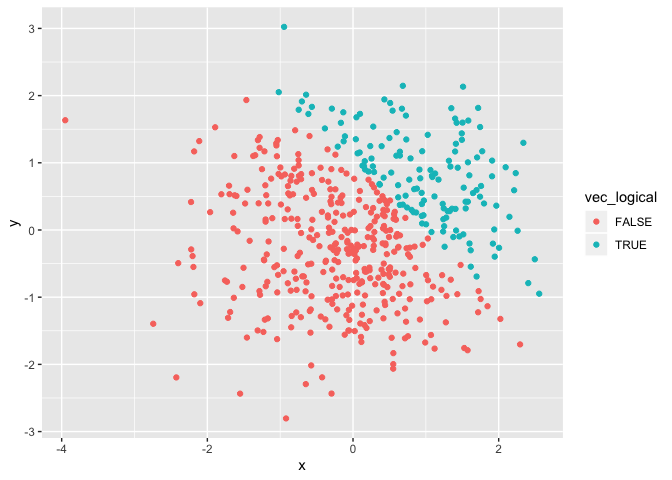
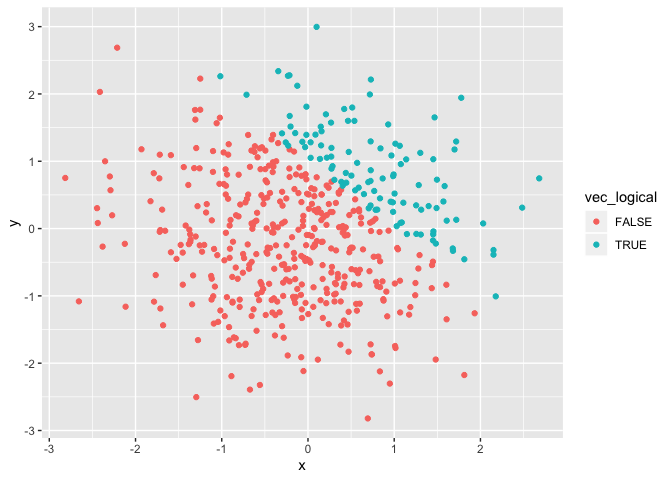
Fixing spacing for header

diff --git a/p8105_hw1_sm4594.md b/p8105_hw1_sm4594.md
@@ -47,13 +47,13 @@ problem1_df = tibble(
 mean(pull(problem1_df, norm_samp))
 ```
 
-    ## [1] -0.1593224
+    ## [1] 0.1890514
 
 ``` r
 mean(pull(problem1_df, norm_samp_pos))
 ```
 
-    ## [1] 0.5
+    ## [1] 0.75
 
 ``` r
 mean(pull(problem1_df, vec_char))
@@ -147,9 +147,9 @@ problem2_df = tibble(
 ```
 
 *There are 500 rows and 5 columns in the dataset. The mean, median, and
-standard deviation of x are 0.0912163, 0.1177736 and 1.0164616,
+standard deviation of x are -0.0674565, -0.0510718 and 0.9260709,
 respectively. The proportion of cases for which x + y \> 1 is
-0.28.*
+0.216.*
 
 ## Making a scatterplot of y vs. x; color points using logical variable
 
@@ -157,9 +157,9 @@ respectively. The proportion of cases for which x + y \> 1 is
 ggplot(problem2_df, aes(x = x, y = y, color = vec_logical)) + geom_point()
 ```
 
-![](p8105_hw1_sm4594_files/figure-gfm/plot1-1.png)<!-- --> \#\#
-Exporting first scatterplot to project
-directory:
+![](p8105_hw1_sm4594_files/figure-gfm/plot1-1.png)<!-- -->
+
+## Exporting first scatterplot to project directory:
 
 ``` r
 ggsave("problem2_df.pdf")
